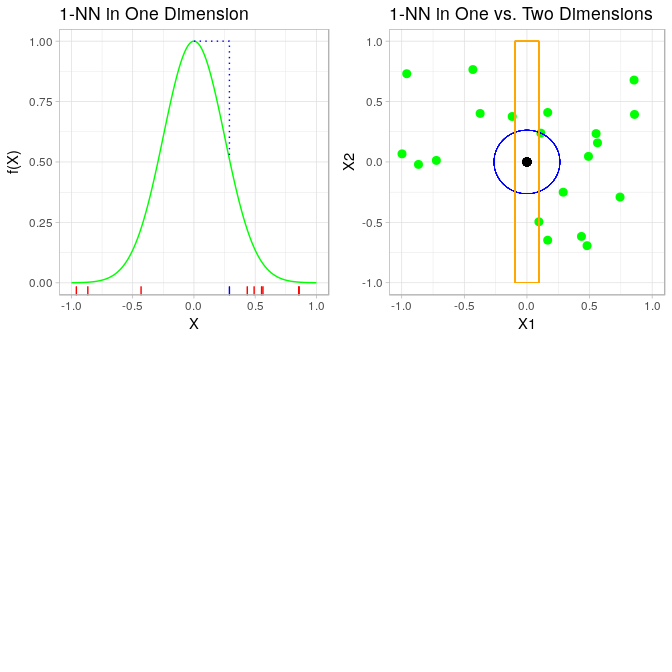
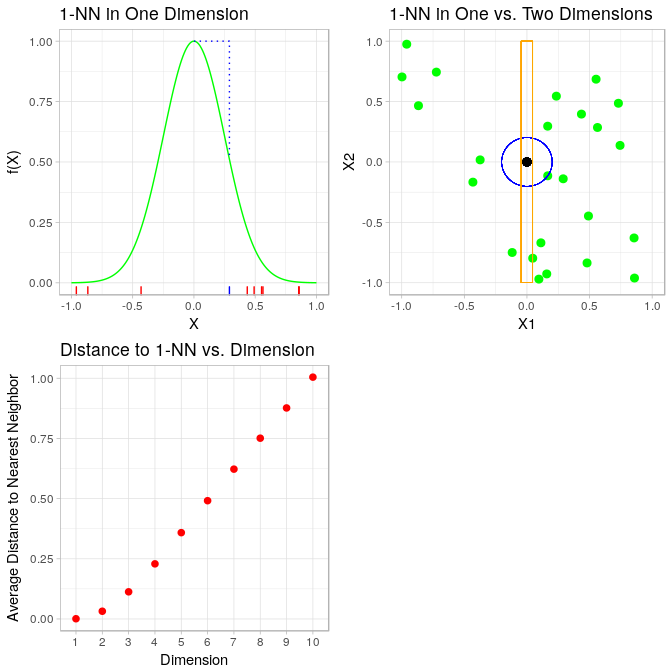
figure 2.7 bottom left panel

diff --git a/02-Overview-Supervised-Learning.md b/02-Overview-Supervised-Learning.md
@@ -253,7 +253,7 @@ For the following figure we simulate the uniformly distributed data over 10 dime
 ``` r
 target.fun = function(x) exp(-8 * norm(matrix(x, ncol = 1))^2)
 p = 10 # number of dimensions
-n = 20 # sample size
+n = 1000 # sample size
 set.seed(234)
 multi.dim.data = replicate(p, runif(n, -1, 1)) # creating n samples from p dimensions
 
@@ -264,12 +264,38 @@ path.data = data.frame(x = c(0, nn0, nn0), y = sapply(c(0, 0, nn0), target.fun))
 grid = seq(-1, 1, .01)
 
 # top-right panel:
-d1 = multi.dim.data[ ,1] # first dimension
-d2 = multi.dim.data[ ,2] # second dimension
+d1 = multi.dim.data[1:24, 1] # first dimension
+d2 = multi.dim.data[1:24, 2] # second dimension
 nn1 = d1[which.min(abs(d1))] # "nearest-neighbor" of zero in one dimension
 dist0 = sqrt(d1^2 + d2^2) # euclidean distance between all points and (0, 0)
 i.min = which.min(dist0) # index of "nearest-neighbor"
 nn2 = c(d1[i.min], d2[i.min])
+
+# bottom-left panel:
+obs = 1:10
+example.2d = data.frame(n = obs, x1 = d1[obs], x2 = d2[obs])
+distances = as.matrix(dist(example.2d[-1], upper = TRUE, diag = TRUE))
+tmp = apply(distances + diag(Inf, 10), 1, which.min)
+tmp2 = apply(distances + diag(Inf, 10), 1, min)
+ggplot(data = example.2d, mapping = aes(x = x1, y = x2)) + 
+  ggforce::geom_circle(data = example.2d, aes(x0 = x1, y0 = x2, r = tmp2), 
+                       col = "green", alpha = .1, inherit.aes = FALSE) +
+  geom_text(aes(label = n), size = 6) +
+  geom_text(aes(y = x2 - .15, label = paste0("NN: ",tmp, "\nDist: ",round(tmp2, 2))), 
+            col = "red", size = 3) +
+  ggtitle("Nearest neighbor for 10 observations and two dimensions")
+```
+
+![](figures/figure-2-7-data-1.png)
+
+``` r
+bl.data = data.frame(Dimension = 1:p, AverageDistance = rep(0, p))
+for (d in 1:p) {
+  #cat("Dimension", d, "\n")
+  distances = as.matrix(dist(multi.dim.data[ ,1:d], upper = TRUE, diag = TRUE))
+  min.distances = apply(distances + diag(Inf, n), 1, min)
+  bl.data[d, "AverageDistance"] = mean(min.distances)
+}
 ```
 
 Figure 2-7
@@ -292,7 +318,12 @@ tr = ggplot(data.frame(d1, d2), aes(x = d1, y = d2)) +
   geom_point(data = NULL, aes(x = 0, y = 0), size = 2.5) +
   xlim(c(-1,1)) + xlab("X1") + ylab("X2") + ggtitle("1-NN in One vs. Two Dimensions")
 
-gridExtra::grid.arrange(tl, tr, nrow = 2, ncol = 2)
+bl = ggplot(bl.data, aes(x = factor(Dimension), y = AverageDistance)) +
+  geom_point(colour = "red", size = 2) +
+  xlab("Dimension") + ylab("Average Distance to Nearest Neighbor") +
+  ggtitle("Distance to 1-NN vs. Dimension")
+
+gridExtra::grid.arrange(tl, tr, bl, nrow = 2, ncol = 2)
 ```
 
 ![](figures/figure-2-7-1.png)
